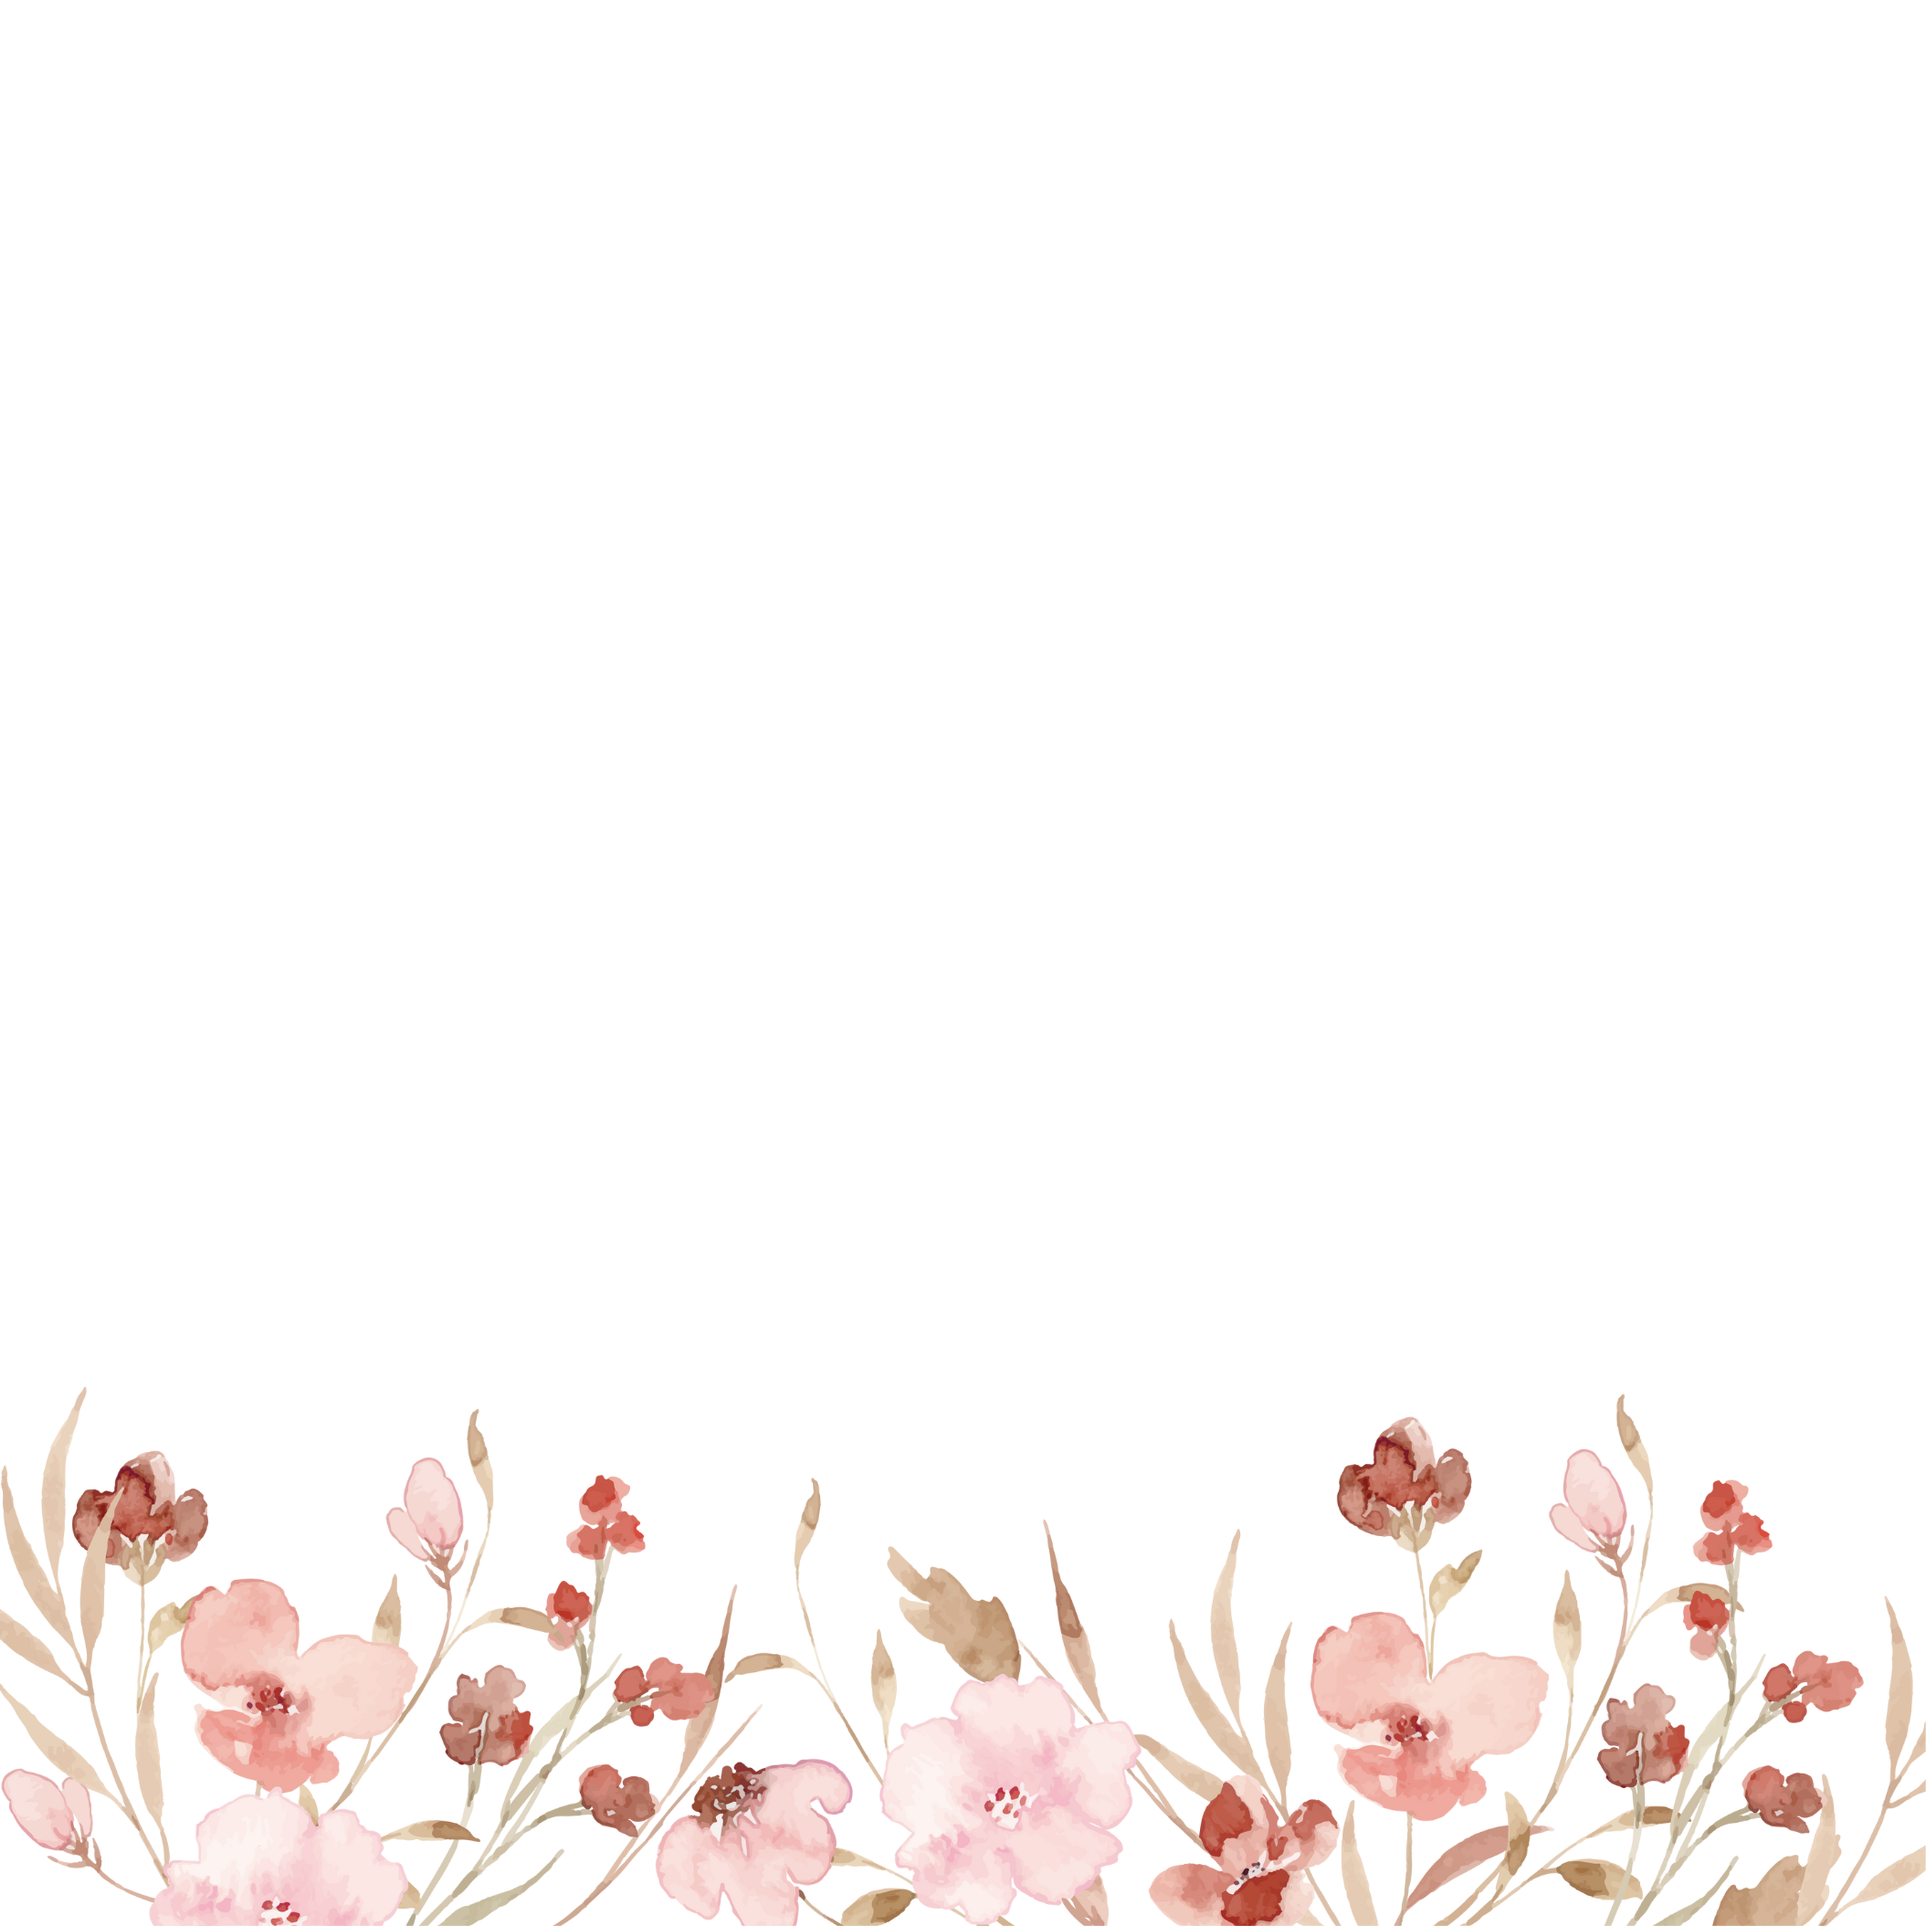
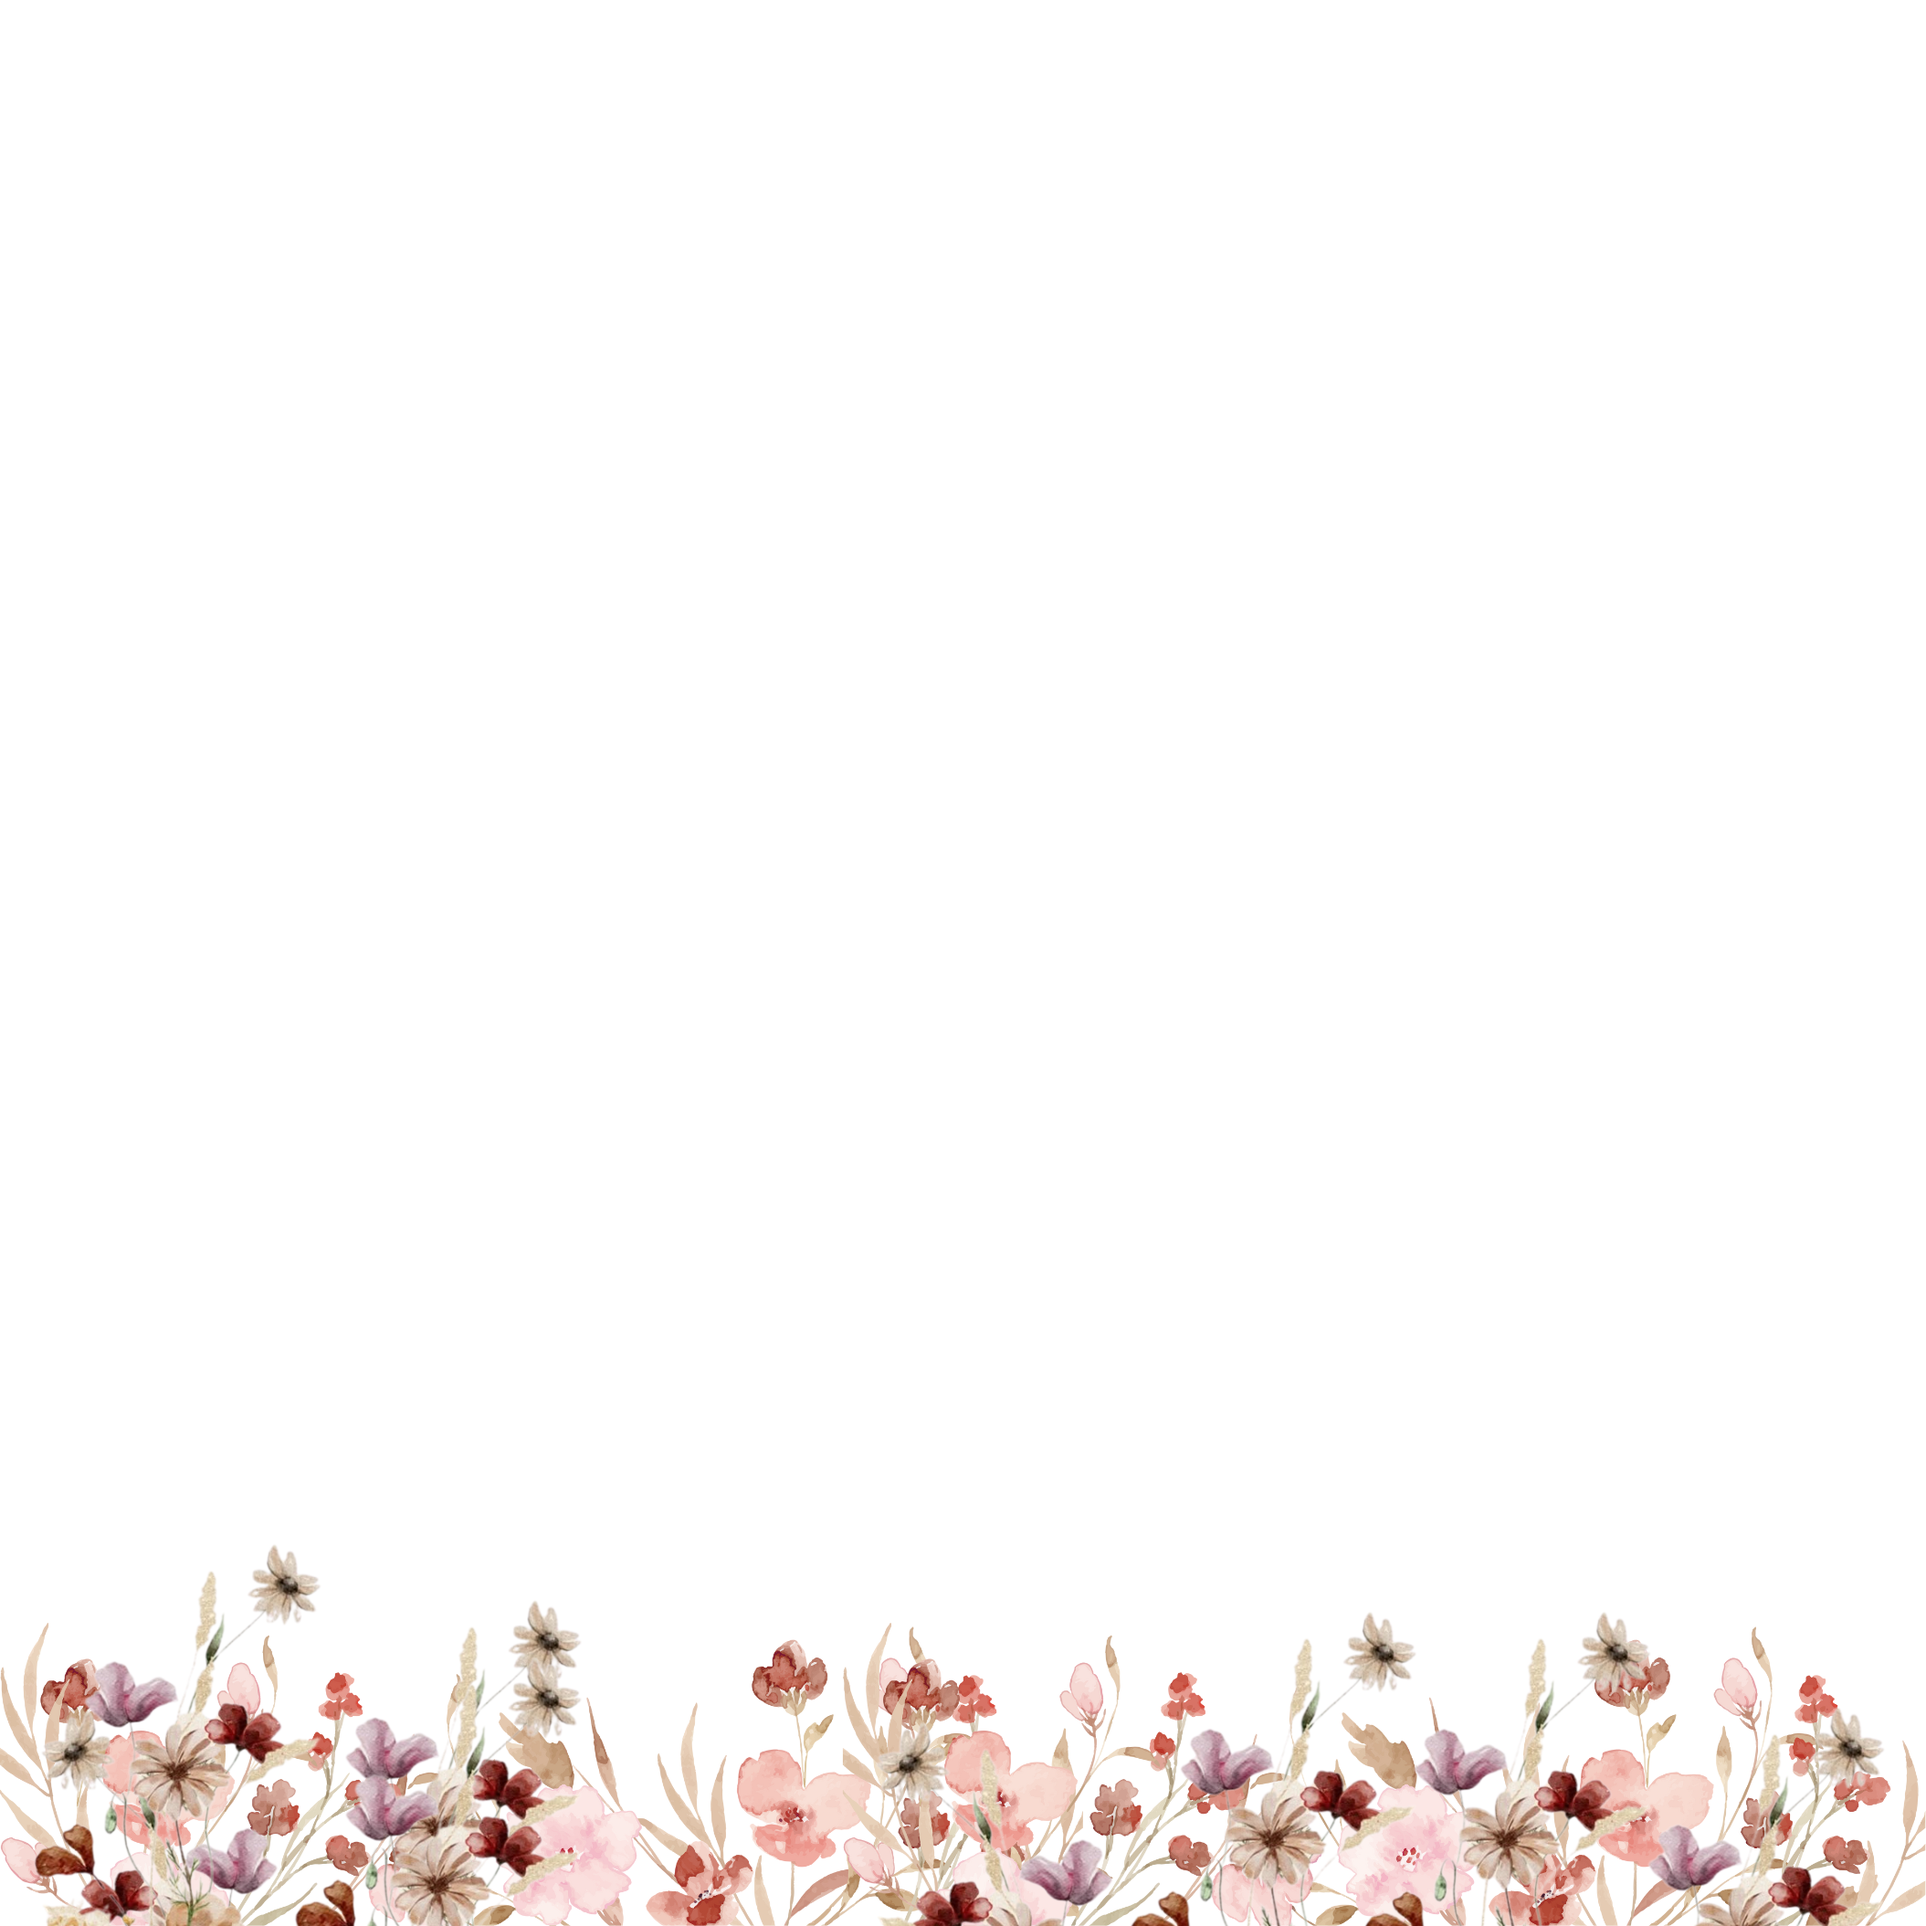
Se cambian flores, agrega comentario de descuento y se quita las negritas al final

Changed region(s): [[0.0, 0.7397, 1.0, 1.0], [0.4007, 0.7705, 0.4315, 0.8013]]

diff --git a/components/footer.tsx b/components/footer.tsx
@@ -11,19 +11,19 @@ export default function Footer() {
         <p className="text-[#86895d] mb-6 ">¡Esperamos contar con tu presencia!</p>
         <p className="text-[#86895d] text-sm">23 de Agosto, 2025</p>
 
-        <div className="mt-4 mb-4 text-[#86895d] text-sm font-bold">
+        <div className="mt-4 mb-6 text-[#86895d] text-sm font-medium">
           <p>Hay momentos en la vida que son </p>
           <p>muy especiales por sí solos,</p>
           <p>pero al compartirlos con personas como tú</p>
           <p>se convierten en momentos imposibles de olvidar</p>
         </div>
       </div>
-      <div className="absolute left-1/2 transform -translate-x-1/2 bottom-0 w-64 h-64 opacity-40 pointer-events-none">
+      <div className="absolute left-1/2 transform -translate-x-1/2 bottom-0 w-96 h-96 opacity-70 pointer-events-none">
         <Image
           src="/elegant-floral-4.png"
           alt="Elegant floral element"
-          width={256}
-          height={256}
+          width={384}
+          height={384}
           className="object-contain"
         />
       </div>

diff --git a/components/countdown-timer.tsx b/components/countdown-timer.tsx
@@ -45,7 +45,7 @@ export default function CountdownTimer({ targetDate }: CountdownTimerProps) {
       <img
         src="/flowey-image.png"
         alt="Flowey"
-        className="absolute bottom-0 left-1/2 transform -translate-x-1/2 w-52 opacity-100 pointer-events-none"
+        className="absolute bottom-0 left-1/2 transform -translate-x-1/2 w-52 opacity-55 pointer-events-none"
       />
 
       <div className="container mx-auto px-4 relative z-10">

diff --git a/components/event-details.tsx b/components/event-details.tsx
@@ -90,7 +90,7 @@ export default function EventDetails() {
                 ¡Reserva tu lugar!
               </a>
 
-
+              <p className="text-sm text-[#86895d]">Reserva y obtén 10% de descuento mencionando que asistirás a la boda.</p>
             </div>
           </motion.div>
 
